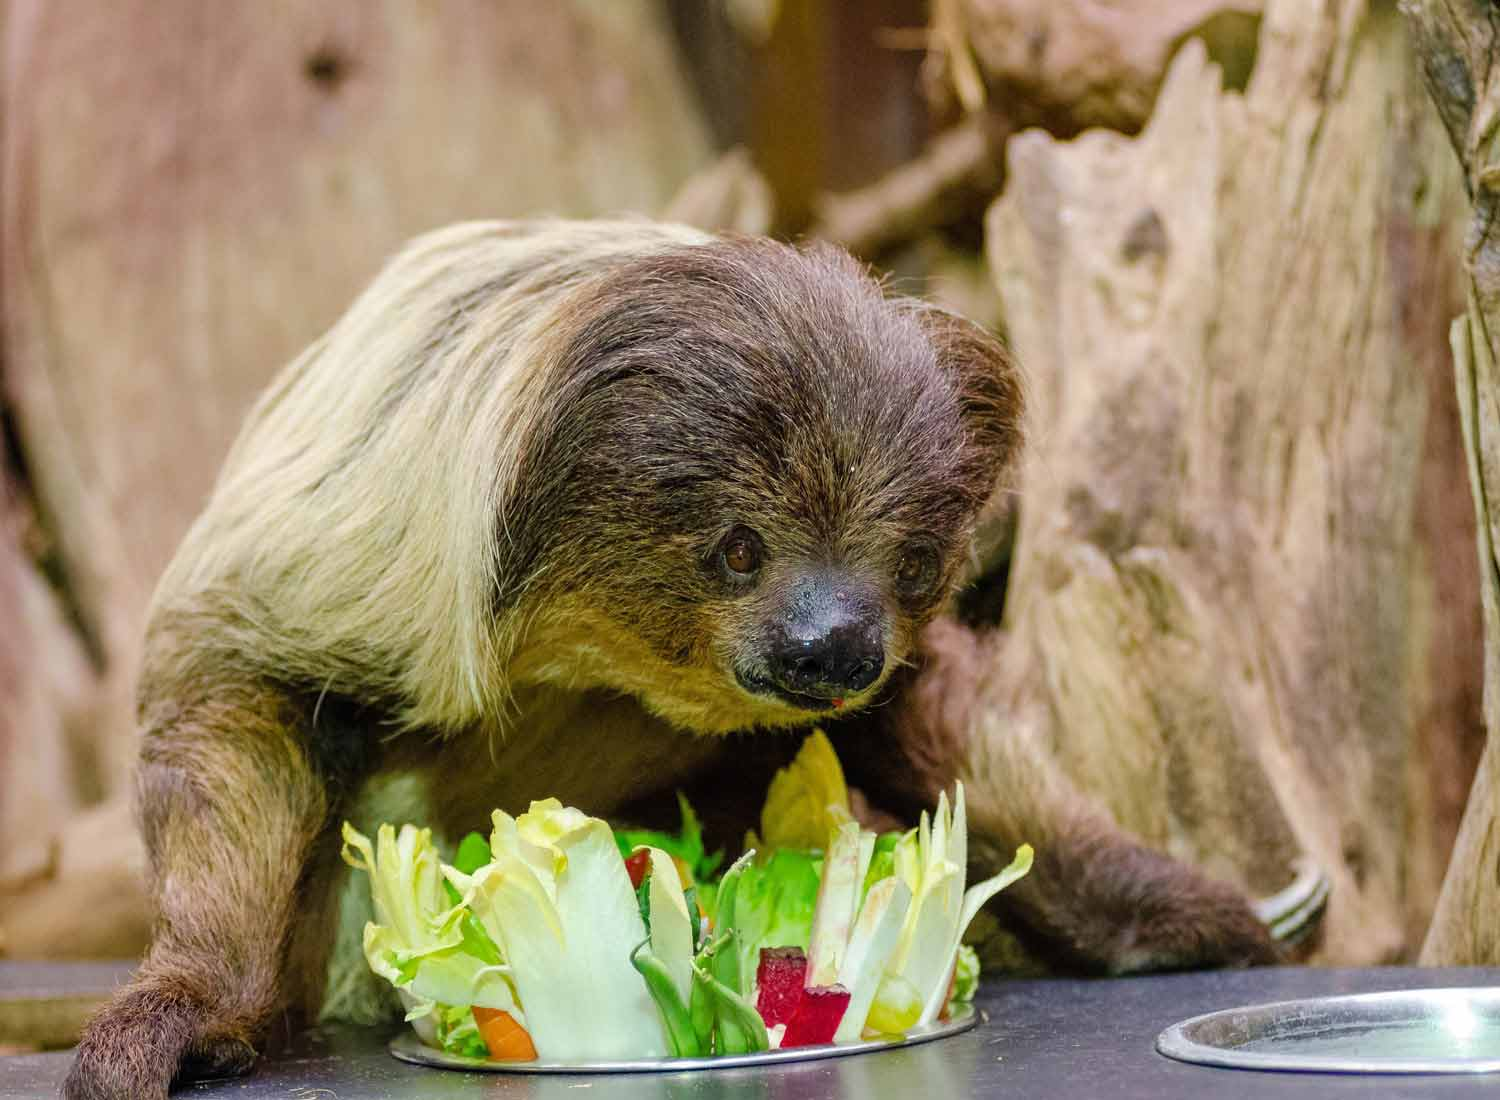
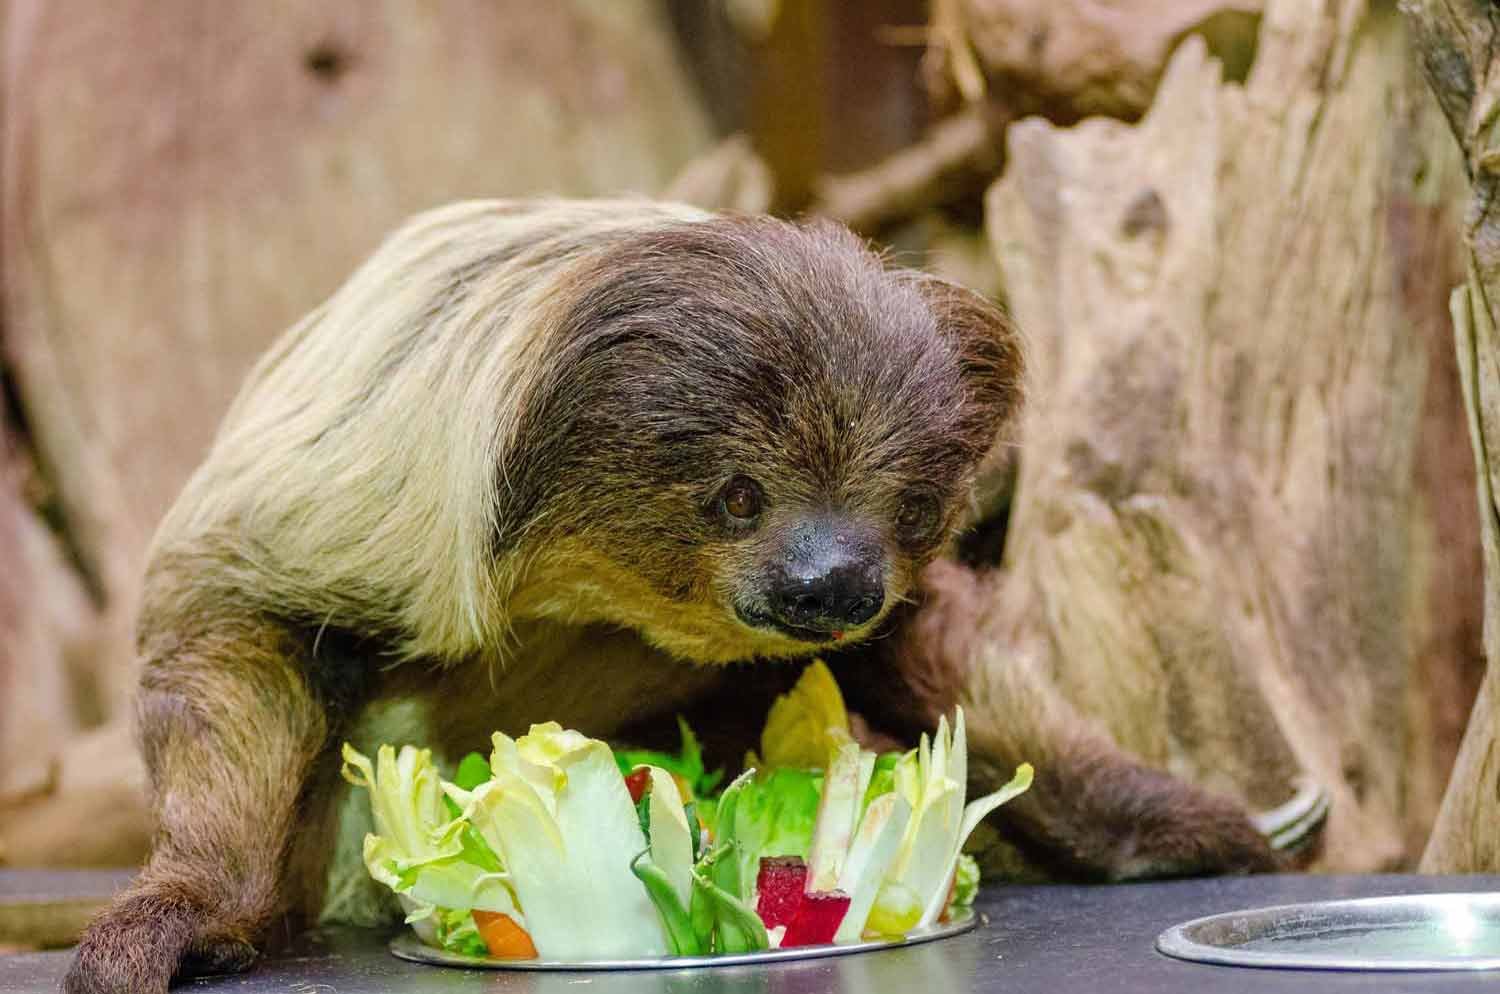
Adjust the images sizes

diff --git a/index.html b/index.html
@@ -11,11 +11,11 @@
 </head>
 <body class="pad-t-1-2 push-1-2">
   <div class="content max-length">
-    <div class="border pad-t-1-8">
-      <img src="images/sloth-1.jpg" alt="" class="img-flex push-1-8 sloth">
+    <div class="border pad-t-1-8 sloth">
+      <img src="images/sloth-1.jpg" alt="" class="img-flex push-1-8 relative">
     </div>
     <main class="pad-t">
-      <h1 class="yotta pin-tl pad-t gutter-1-2"> The Mighty Sloth</h1>
+      <h1 class="yotta absolute pad-t gutter-1-2"> The Mighty Sloth</h1>
       <p class="gutter-1-2">Sloths are mammals classified in the families Megalonychidae (two-toed sloths) and Bradypodidae (three-toed sloths), including six extant species. They are named after the capital sin of sloth because they seem slow and lazy at first glance; however, their usual idleness is due to metabolic adaptations for conserving energy.</p>
 
       <p class="gutter-1-2">Aside from their surprising speed during emergency flights from predators, other notable traits of sloths include their strong body and their ability to host symbiotic algae on their furs.</p>
@@ -35,7 +35,7 @@
 
       <a href="https://en.wikipedia.org/wiki/Sloth" class="gutter-1-2 micro">https://en.wikipedia.org/wiki/Sloth</a>
     </main>
-</div>
+  </div>
 
 </body>
 </html>

diff --git a/css/main.css b/css/main.css
@@ -5,7 +5,9 @@ html {
 h1 {
   color: #fff;
   font-family: Georgia;
-  text-shadow: 1px 1px 1px black;
+  text-shadow: 2px 2px 2px black;
+  top: .5em;
+  left: 1em;
 }
 
 .img-flex {
@@ -14,8 +16,8 @@ h1 {
 }
 
 .border {
-  border-top: solid 2px rgba(28, 14, 0, 1);
-  border-bottom: solid 2px rgba(28, 14, 0, 1);
+  border-top: solid 2px rgba(28, 14, 0, .5);
+  border-bottom: solid 2px rgba(28, 14, 0, .5);
 }
 
 figcaption {
@@ -30,11 +32,12 @@ a {
   background-color: #fff;
 }
 
-  body {
-    background: url("../images/sloth-bg.svg") center center repeat;
-    background-color: #bea586;
-    background-size: 48px;
+body {
+  background: linear-gradient(to top, #000, transparent);
+}
 
-  }
-
+body {
+  background: url("../images/sloth-bg.svg") center center repeat;
+  background-color: #bea586;
+  background-size: 48px;
 }
